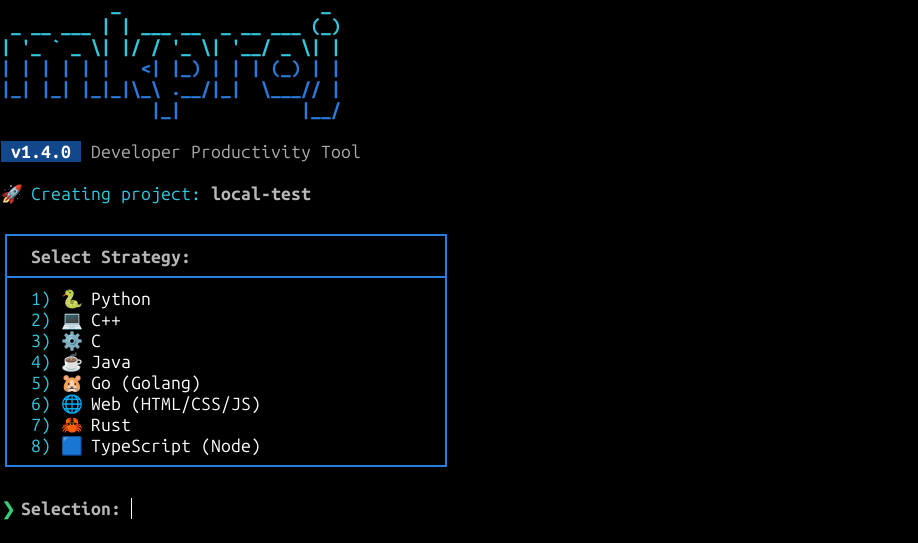
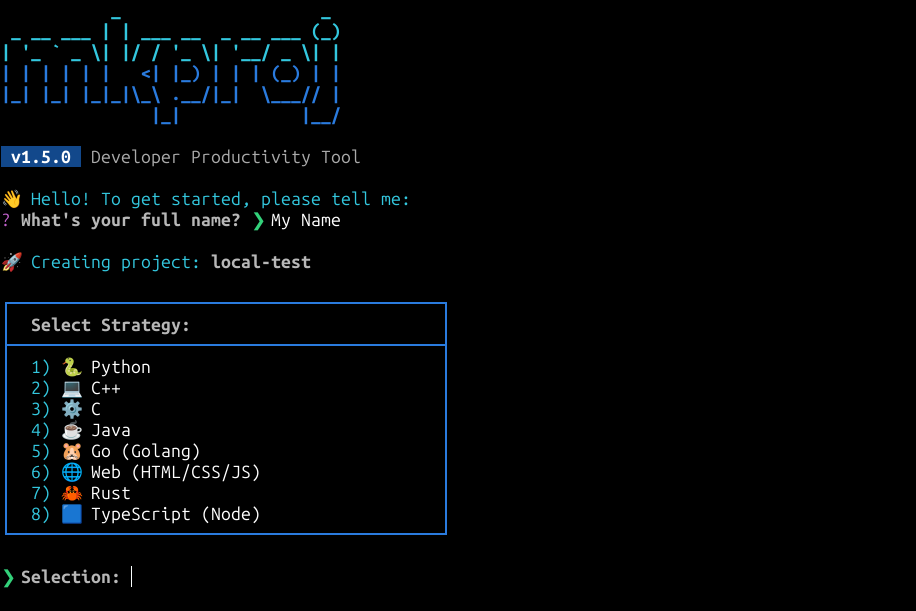
docs: bump version to v1.5.0 and update project documentation
Updates CLI banner in main.py to reflect version 1.5.0.
Refresh README.md with updated version badges and new operational screenshots.
Replaces old assets with current visual evidence of the tool's performance.

diff --git a/main.py b/main.py
@@ -33,7 +33,7 @@ def print_banner():
     print(fr"|_| |_| |_|_|\_\ .__/|_|  \___// |")
     print(fr"               |_|            |__/ {Colors.END}")
     print()
-    print(f"{Colors.BG_BLUE}{Colors.WHITE}{Colors.BOLD} v1.4.0 {Colors.END} {Colors.DIM}Developer Productivity Tool{Colors.END}\n")
+    print(f"{Colors.BG_BLUE}{Colors.WHITE}{Colors.BOLD} v1.5.0 {Colors.END} {Colors.DIM}Developer Productivity Tool{Colors.END}\n")
 
 def main():
     # Enable ANSI colors on Windows terminals

diff --git a/README.md b/README.md
@@ -3,7 +3,7 @@
 > A fast and flexible CLI tool to scaffold structured projects in multiple programming languages.
 
 <p align="center">
-    <img src="https://img.shields.io/badge/version-v1.4.0-4c1"/>
+    <img src="https://img.shields.io/badge/version-v1.5.0-4c1"/>
     <img src="https://img.shields.io/badge/status-stable-2ea44f"/>
     <img src="https://img.shields.io/badge/maintenance-active-1f6feb"/>
     <img src="https://img.shields.io/badge/language-Python-3572A5"/>
@@ -11,7 +11,7 @@
 </p>
 
 > [!IMPORTANT]  
-> **mkproj** is now in stable version **v1.4.0**. This release introduces a complete UI overhaul, full project documentation, and integrated Git automation.
+> **mkproj** is now in stable version **v1.5.0**. This release introduces a complete UI overhaul, full project documentation, license addition, and integrated Git automation.
 
 ## Table of Contents
 
@@ -36,7 +36,7 @@
     <em>Automatic directory and file generation</em><br>
     <img src="./assets/screenshots/screenshot-002.png" alt="mkproj-cli interface demo 2" width="600">
     <br>
-    <em>Git automation, project summary and next steps</em><br>
+    <em>License addition, Git automation, project summary, and next step</em><br>
     <img src="./assets/screenshots/screenshot-003.png" alt="mkproj-cli interface demo 3" width="600">
 </p>
 
